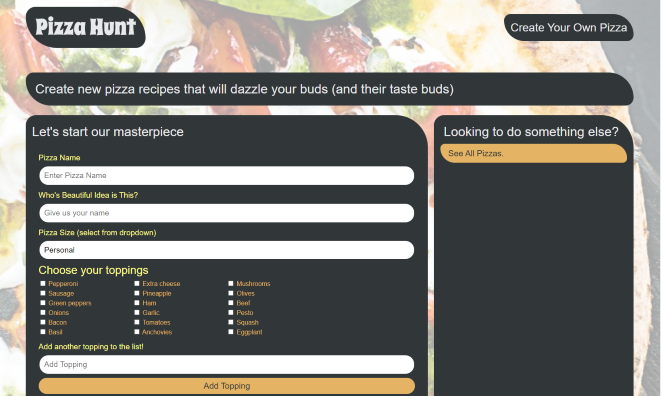
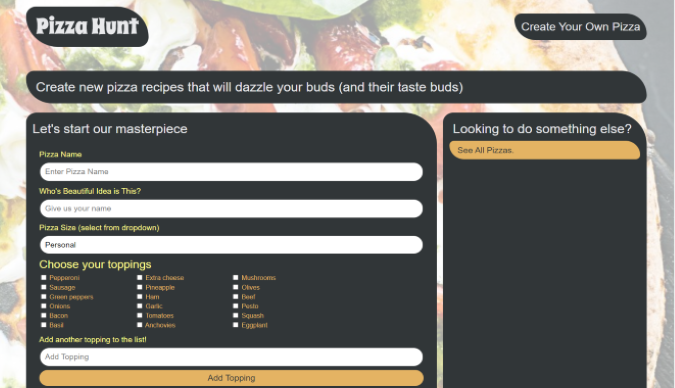
add resume to navbar, more projects, fixed some bugs, removed socail buttons from bottom- will add back later

diff --git a/src/constants/constants.js b/src/constants/constants.js
@@ -4,7 +4,7 @@ export const projects = [
     title: 'Weather App',
     description: "A weather app to look up the weather in the area you want to see.",
     image: '/images/1.png',
-    tags: ['React', 'TailwindCSS', 'Toastify', ],
+    tags: ['React ' + 'TailwindCSS ' + 'Toastify '],
     visit: 'https://github.com/mikeydgithub/weather_app',
     source: 'https://weatherzone22-app.herokuapp.com/',
     id: 0,
@@ -13,7 +13,7 @@ export const projects = [
     title: 'Pizza Hunt',
     description:"A social network pizza app that users can create pizzas, save their orders, and start a discussion.",
     image: '/images/2.png',
-    tags: ['Mongoose', 'Node.js', 'Express'],
+    tags: ['Mongoose ' + 'Node.js ' + 'Express '],
     visit: 'https://github.com/mikeydgithub/pizza-hunt',
     source: 'https://pizza-hunt22.herokuapp.com/',
     id: 1,
@@ -22,7 +22,7 @@ export const projects = [
     title: 'Travel Budget Tracker',
     description: "A PWA (Progress Web Application) for tracking your vacation budget with slow internet or no internet.",
       image: '/images/3.png',
-      tags: ['Compression', 'Mongoose', 'Morgan', 'Express'],
+      tags: ['Compression ' + 'Mongoose ' + 'Morgan ' + 'Express '],
     visit: 'https://github.com/mikeydgithub/Travel-Budget-Tracker',
     source: 'https://travel-budget-trackerv1.herokuapp.com/',
     id: 2,
@@ -31,18 +31,27 @@ export const projects = [
     title: 'Pokemon App',
     description: "An app for generating a pokemon based on how many github repositories the user has.",
     image: '/images/4.png',
-    tags: ['JavaScript', 'Materialize'],
+    tags: ['JavaScript ' + 'Materialize '+ 'HTML '+ 'CSS'],
     visit: 'https://github.com/mikeydgithub/Pokemon-App',
     source: 'https://mikeydgithub.github.io/Pokemon-App/',
     id: 3,
   },
+  {
+    title: 'Crypto CLI',
+    description: "An app using a fetch API from CoinGecko to display real time prices in your CLI with color.",
+    image: '/images/5.png',
+    tags: ['React ' + 'Axios '+ 'Ink '+ 'Meow '],
+    vist: 'https://github.com/mikeydgithub/crypto-InkCLI',
+    source: 'https://github.com/mikeydgithub/crypto-InkCLI',
+    id: 4,
+  },
+  {
+    title: 'Shop Shop',
+    description: "An E-Commerce app for purchasing house hold items and food.",
+    image: '/images/6.png',
+    tags: ['React ' + 'Stripe '+ 'React-Router '+ 'Mongoose ' + 'GraphQL ' + 'JWT '],
+    vist: 'https://github.com/mikeydgithub/shop-shop',
+    source: 'https://shoper-shop-app.herokuapp.com/',
+    id: 5,
+  },
 ];
-
-
-// export const TimeLineData = [
-//   { year: 2017, text: 'Started my journey', },
-//   { year: 2018, text: 'Worked as a freelance developer', },
-//   { year: 2019, text: 'Founded JavaScript Mastery', },
-//   { year: 2020, text: 'Shared my projects with the world', },
-//   { year: 2021, text: 'Started my own platform', },
-// ];

diff --git a/src/components/Footer/Footer.js b/src/components/Footer/Footer.js
@@ -1,16 +1,13 @@
-import React, { useState } from 'react';
-
-
-import { AiFillGithub, AiFillInstagram, AiFillLinkedin } from 'react-icons/ai';
-import { SocialIcons } from '../Header/HeaderStyles';
-import { ContactContainer, CompanyContainer, FooterWrapper, LinkColumn, LinkItem, LinkList, LinkTitle, Slogan, SocialContainer, SocialIconsContainer} from './FooterStyles';
+// import { AiFillGithub, AiFillInstagram, AiFillLinkedin } from 'react-icons/ai';
+// import { SocialIcons } from '../Header/HeaderStyles';
+import { ContactContainer, FooterWrapper, LinkColumn, LinkItem, LinkList, LinkTitle} from './FooterStyles';
 
 
 
 const Footer = () => {
   
   return (
-    <FooterWrapper>
+    <FooterWrapper id="contact">
       <LinkList>
       <LinkColumn>
         <LinkTitle>Call</LinkTitle>
@@ -18,17 +15,17 @@ const Footer = () => {
       </LinkColumn>
       <LinkColumn>
         <LinkTitle>Email</LinkTitle>
-        <LinkItem href="mailto:ampgzo2@gmail.com">ampgzo2@gmail.com</LinkItem>
+        <LinkItem href="mailto:mikediamond334@gmail.com">mikediamond334@gmail.com</LinkItem>
       </LinkColumn>
       </LinkList>
-      <ContactContainer id="contact">
+      <ContactContainer>
       <section>
-        <form className='form' action="https://formsubmit.co/ampgzo2@gmail.com" method="POST">
+        <form className='form' action="https://formsubmit.co/mikediamond334@gmail.com" method="POST">
           <h1>Contact Form</h1>
           <label>Name</label>
-          <input type="text" placeholder='name' required/>
+          <input type="text" placeholder='Name' required/>
           <label>Email</label>
-          <input type="email" placeholder='email' required/>
+          <input type="email" placeholder='Email' required/>
           <label>Message</label>
           <input type="text" name="message" placeholder='Message' required/> 
           <button type='submit'>Submit</button>
@@ -36,7 +33,7 @@ const Footer = () => {
         </form>
       </section>
       </ContactContainer>
-      <SocialIconsContainer>
+      {/* <SocialIconsContainer>
         <CompanyContainer>
         </CompanyContainer>
         <SocialContainer>
@@ -50,7 +47,7 @@ const Footer = () => {
           <AiFillInstagram size="3rem" />
         </SocialIcons>
         </SocialContainer>
-      </SocialIconsContainer>
+      </SocialIconsContainer> */}
     </FooterWrapper>
   );
 };

diff --git a/src/components/Projects/ProjectsStyles.js b/src/components/Projects/ProjectsStyles.js
@@ -5,39 +5,49 @@ export const Img = styled.img`
   height:100%;
   object-fit: cover;
   overflow: hidden;
-`
+  cursor: pointer;
+  &:hover{
+  transform: scale(1.05);
+  }
+  transition: all 0.5s ease;
+`;
 
 export const GridContainer = styled.section`
-display: grid;
-grid-template-columns: repeat(auto-fill, minmax(400px, 1fr));
-padding: 3rem;
-place-items: center;
-column-gap: 2rem;
-row-gap: 3rem;
+  display: grid;
+  grid-template-columns: repeat(auto-fill, minmax(400px, 1fr));
+  padding: 3rem;
+  place-items: center;
+  column-gap: 5rem;
+  row-gap: 3rem;
 @media ${(props) => props.theme.breakpoints.sm} {
   display: flex;
   flex-direction: column;
   padding: 2rem;
   padding-bottom: 0;
-}
+  }
+`;
 
-`
 export const BlogCard = styled.div`
+  display: flex;
+  flex-wrap: wrap;
   border-radius: 10px;
   box-shadow: 3px 3px 20px rgba(80, 78, 78, 0.5);
   text-align: center;
-  width: 400px;
+  alight-content: center;
+  justify-content: center;
+  width: 100%;
+  height: 100%;
+  margin: 45px;
   @media ${(props) => props.theme.breakpoints.sm} {
     width: 100%;
   }
 `;
+
 export const TitleContent = styled.div`
   text-align: center;
   z-index: 20;
   width: 100%;
-
 `;
-
 
 export const HeaderThree = styled.h3`
   font-weight: 500;
@@ -72,13 +82,11 @@ export const CardInfo = styled.p`
   color: #e4e6e7;
   font-style: 2rem;
   line-height: 24px;
-  text-align: justify;
+  text-align: justify-center;
   @media ${(props) => props.theme.breakpoints.sm} {
-    padding:.3rem
-  
+    padding:.3rem 
 }
 `;
-
 
 export const UtilityList = styled.ul`
   list-style-type: none;
@@ -89,24 +97,19 @@ export const UtilityList = styled.ul`
 `;
 
 export const ExternalLinks = styled.a`
-color:#d4c0c0;
-font-size: 1.6rem;
-padding:1rem 1.5rem;
-background: #6b3030;
-border-radius: 15px;
 transition: 0.5s;
 &:hover{
-  background: #801414;
-
+  
 }
 `;
 
 export const TagList = styled.ul`
 display: flex;
-justify-content: space-around;
 padding: 2rem;
-`
+margin-left: 5px;
+`;
+
 export const Tag = styled.li`
 color: #d8bfbf;
 font-size: 1.5rem;
-`
+`;

diff --git a/src/components/Header/Header.js b/src/components/Header/Header.js
@@ -2,15 +2,15 @@ import Link from 'next/link';
 import React from 'react';
 import { AiFillGithub, AiFillInstagram, AiFillLinkedin } from 'react-icons/ai';
 import { DiCssdeck } from 'react-icons/di';
+import { Container, Div1, Div2, Div3, NavLink, SocialIcons, Span, ResumeLink } from './HeaderStyles';
 
-import { Container, Div1, Div2, Div3, NavLink, SocialIcons, Span } from './HeaderStyles';
 
 const Header = () =>  (
   <div>
     <Container>
       <Div1>
         <Link href="/">
-          <a style={{ display: "flex", alignItems: "center", color: 'white', marginBottom: '20px' }}>
+          <a style={{ display: "flex", alignItems: "center", color: 'white', marginBottom: '20px', marginRight: '20px' }}>
             <DiCssdeck size='3rem' /> <Span>Portfolio</Span>
           </a>
         </Link>
@@ -35,6 +35,14 @@ const Header = () =>  (
           <Link href="#contact">
             <NavLink>Contact</NavLink>
           </Link>
+        </li>
+        <li>
+          <ResumeLink>
+          <a href="https://docs.google.com/document/d/101I_VhhBuazlbmXajEuys8PobHUa3LIt/edit?usp=sharing&ouid=105156303432615579661&rtpof=true&sd=true"
+          target="_blank">
+          Resume
+          </a>
+          </ResumeLink> 
         </li>
       </Div2>
       <Div3>

diff --git a/src/components/Header/HeaderStyles.js b/src/components/Header/HeaderStyles.js
@@ -8,6 +8,8 @@ export const Container = styled.div`
   grid-column-gap: 2rem;
   padding: 1rem;
   padding-top: 2rem;
+  background: rgb(2, 0, 206, 0.1);
+  
 
   @media ${(props) => props.theme.breakpoints.sm} {
     display: grid;
@@ -66,7 +68,29 @@ export const NavLink = styled.a`
   }
 `;
 
-/// DropDown Contact
+// Resume Link
+export const ResumeLink = styled.p`
+  font-size: 2rem;
+  line-height: 32px;
+  color: rgba(255, 255, 255, 0.75);
+  transition: 0.4s ease;
+  &:hover {
+    color: #fff;
+    opacity: 1;
+    cursor: pointer;
+  }
+  a {
+    color: rgba(255, 255, 255, 0.75) 
+  }
+  a:hover {
+    color: #fff;
+    opacity: 1;
+  }
+  @media ${(props) => props.theme.breakpoints.sm} {  
+  }
+`;
+
+// DropDown Contact
 export const ContactDropDown = styled.button`
   border: none;
   display: flex;

diff --git a/src/components/Projects/Projects.js b/src/components/Projects/Projects.js
@@ -12,9 +12,11 @@ const Projects = () => (
     <SectionDivider />
     <SectionTitle main>Projects</SectionTitle>
     <GridContainer>
-      {projects.map(({ id, image, title, description, source, visit, tags }) => (
+      {projects.map(({ id, image, title, description, source, tags }) => (
         <BlogCard key={id}>
+        <ExternalLinks href={source}>
           <Img src={image}/>
+        </ExternalLinks>
           <TitleContent>
             <HeaderThree title>{title}</HeaderThree>
             <Hr />
@@ -29,8 +31,6 @@ const Projects = () => (
             </TagList>
           </div>
           <UtilityList>
-            <ExternalLinks href={visit}>Code</ExternalLinks>
-            <ExternalLinks href={source}>Source</ExternalLinks>
           </UtilityList>
         </BlogCard>
       ))}

diff --git a/src/styles/GlobalComponents/index.js b/src/styles/GlobalComponents/index.js
@@ -280,8 +280,3 @@ export const LinkIconImg = styled.div`
     height: ${({ large }) => large ? '32px' : '16px'};
   }
 `
-// export const SectionImg = styled.img`
-//   display: flex;
-//   height: 300px;
-//   img: url(https://user-images.githubusercontent.com/94988620/172021796-ff385b2a-1191-44d6-9e34-653a2b8e7dd9.png);
-// `

diff --git a/src/components/Footer/FooterStyles.js b/src/components/Footer/FooterStyles.js
@@ -175,10 +175,8 @@ export const ContactContainer = styled.h4`
 textarea {
   padding: 20px;
   border-radius: 3px;
-  /* box-shadow: 0px 0px 5px rgba(0, 0, 0, 0.137); */
   margin-bottom: 20px;
   border: 1px solid lightgray;
-  /* border: none; */
   background: #fff;
   font-size: 16px;
   color: rgb(0, 0, 32);

diff --git a/src/styles/globals.js b/src/styles/globals.js
@@ -20,6 +20,7 @@ const GlobalStyles = createGlobalStyle`
     background: ${props => props.theme.colors.background1};
     color: ${props => props.theme.colors.primary1};
     cursor: default;
+    margin: 0;
 
   }
   h1,h2,h3,h4,h5,h6,button {
